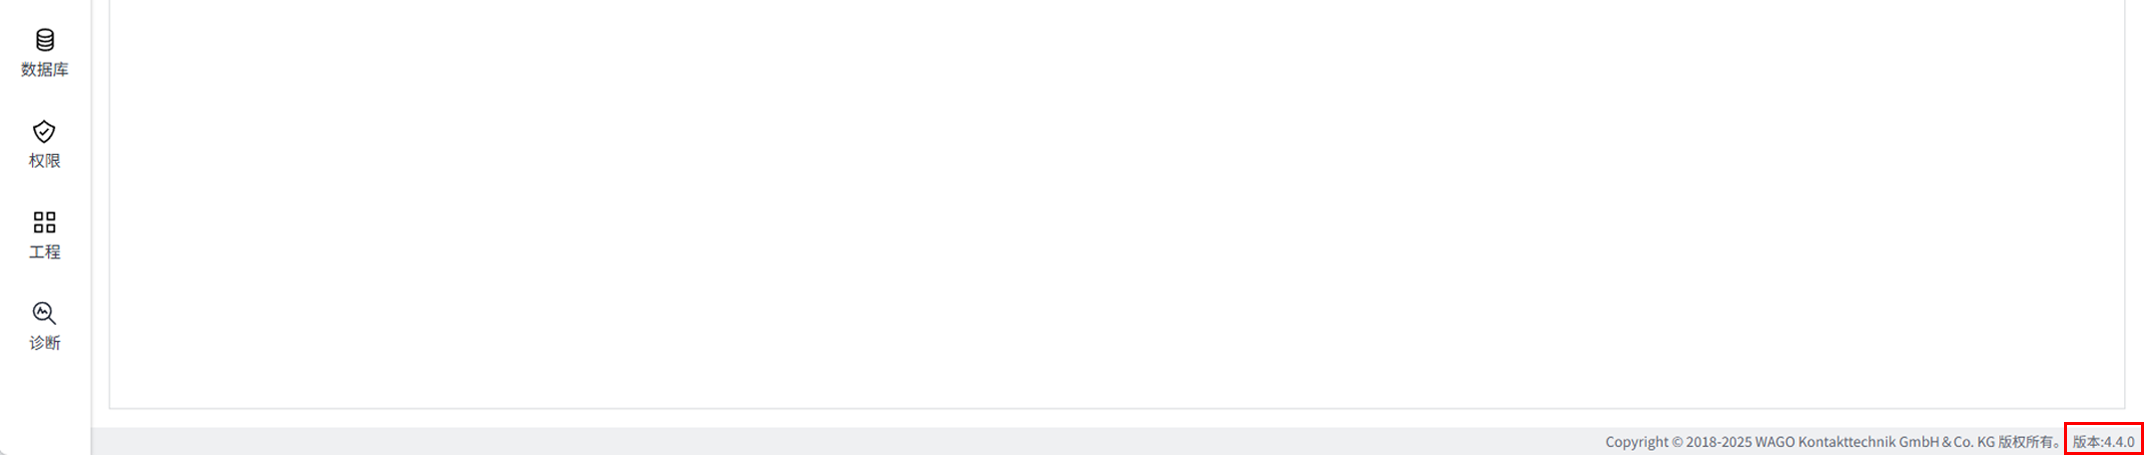
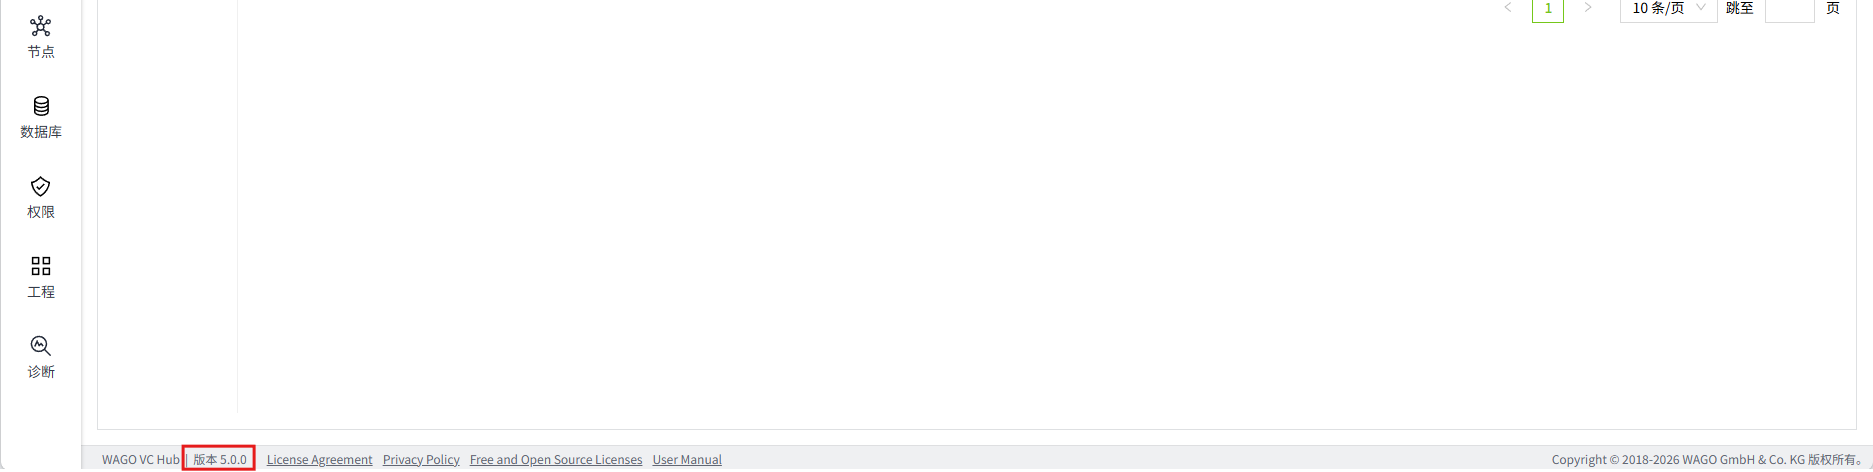
1

diff --git a/docs/installation/product-license.md b/docs/installation/product-license.md
@@ -2,26 +2,56 @@
 
 #### 试用版说明
 
-WAGO VC Hub网站提供的试用版和购买授权后激活的正式版本拥有完全相同的功能，因此你可以在决定购买WAGO VC Hub前，无限期的试用我们的产品。购买授权之后，只需要将授权码输入到试用版中进行激活，即可将使用版本转换为正式版本。
+安装完成后，VC Hub 提供 30 天免费试用期。试用期内，您可以使用产品的所有功能。
 
-在试用模式下的唯一限制是WAGO VC Hub会每两小时停止服务，你可以在界面上点击”重置试用“按钮开启新一轮试用。
+您可以通过购买正式许可证来激活产品。目前仅支持在线激活。
 
 #### 产品授权说明
 
-WAGO VC Hub的产品授权是一种基于服务器的授权方式，并且不限制客户端和点位的数量。接入的点位和客户端数量的上限取决于服务器的性能。
+VC Hub 支持年度订阅和一次性购买两种方式。用户只能选择其中一种购买方式。
 
-服务器的授权是根据功能模块组合而成的，您可以根据需要购买不同的功能模块，可参考WAGO VC Hub的[known-link]。
+授权可基于以下几个功能模块进行：
 
-下面是WAGO VC Hub提供的功能模块：
+##### I/O 变量
 
-| **功能模块**   | **依赖模块**              | **说明**                                                                                                                                                                                                                                                                             |
-|----------------|---------------------------|--------------------------------------------------------------------------------------------------------------------------------------------------------------------------------------------------------------------------------------------------------------------------------------|
-| 基础平台模块   | 无                        | 基础平台模块是唯一必须购买的模块。基础平台模块包含了常见的驱动，如Modbus TCP/RTU, OPC UA, Siemens S7, MQTT，以及变量管理，报警管理，后台脚本计算，时间表等功能。基础平台模块也包含组网和冗余 注1的功能。在组网环境中，基础平台可以作为数采服务器独立运行，并按需提供数据给其他WAGO VC Hub节点。 |
-| 2D可视化模块   | 基础平台模块              | 2D可视化模块可以让用户使用WAGO VC Hub的Web编辑器来构建组态监控画面。                                                                                                                                                                                                                  |
-| 3D可视化模块   | 基础平台模块，2D可视化模块 | 3D可视化模块可以让用户使用WAGO VC Hub的Web 3D编辑器来构建数字孪生应用，并可和2D画面进行融合展示。                                                                                                                                                                                      |
-| 数据库连接模块 | 基础平台模块              | 数据库连接模块可以让WAGO VC Hub连接到第三方数据库，如MySQL，PostgreSQL, InfluxDB等。WAGO VC Hub可以把这些数据库变成历史库，将数据存储到这些数据库中。WAGO VC Hub安装包本身自带一个SQLite数据库，可以用于小型和简单的场景。                                                                  |
+共有 6 种不同的许可证数量可供选择。您可以根据自身情况确定需要购买的许可证数量。
+- 1,000 I/O 变量
+- 2,000 I/O 变量
+- 5,000 I/O 变量
+- 10,000 I/O 变量
+- 20,000 I/O 变量
+- 50,000 I/O 变量
 
-注1：冗余功能是指两台WAGO VC Hub服务器互为主备，因此你需要为两台服务器购买两个基础平台模块的授权。
+**说明**：
+1.  标签数量不能累加。例如：如果您需要使用 3,000 个 I/O 标签，根据标签数量，您需要购买支持 ≥ 3000 个标签的许可证。因此，您需要购买支持 5,000 个 I/O 标签的许可证。
+2.  如果 I/O 标签许可证未激活，该 I/O 标签的质量状态将显示为 "Bad_NotLicensed"
+3.  如果创建的 I/O 标签数量超过 I/O 标签许可证允许的最大值，则根据标签排序规则，超出最大限制的标签其质量状态将被设置为 "Bad_NotLicensed"
+4.  质量状态为“Bad_NotLicensed”（未授权）的标签将不再被收集或推送到预览和运行时页面。
 
+##### 同时在线用户数
 
+同时在线用户数包含三种不同类型的数据。
+- 2 位同时在线用户
+- 5 位同时在线用户
+- 10 位同时在线用户
 
+**说明**：
+1.  如果用户未购买任何同时在线用户类型的许可证，则仅允许一个同时在线用户。
+2.  同时在线用户也不支持累积。
+
+##### 附加组件
+以下功能模块为附加组件。
+- 数据库：MySQL、SQL Server、PostgreSQL、InfluxDB
+- 报表
+- 告警通知：SMS（Twilio）、SMS（阿里云）、企业微信、钉钉
+- Open API
+- 驱动：MQTT Native、MQTT SparkplugB、WAGO Protocol
+- 3D
+
+**说明**：
+1.  每个附加模块均可单独购买。
+2.  对于未授权的模块，将在页面顶部显示一条消息，指出该模块没有许可证，例如：
+    ![alt text](37.png)
+    ![alt text](38.png)
+
+3.  对于未授权的功能模块，在管理控制台和设计器页面允许进行正常操作（例如创建、删除、更新和查询），但在预览和运行时页面其功能将受到限制。

diff --git a/docs/overview/version-update-notes.md b/docs/overview/version-update-notes.md
@@ -7,20 +7,33 @@ WAGO VC Hub一直在不断地发展和更新中，每一个版本都会出现一
 您可以通过以下两种方式获取您当前使用的WAGO VC Hub版本号：
 
 1. 在管理平台的右下角，您可以找到对应的WAGO VC Hub版本号。
+    ![alt text](9.png)
 2. 在组态编辑界面的右上角，有一个感叹号图标，您可以点击此图标获取对应的WAGO VC Hub版本号信息。
 
-![alt text](9.png)
+    ![alt text](10.png)
 
-![alt text](10.png)
-
-- 所见即所得组态编辑器：WAGO VC Hub提供了一个所见即所得[known-link]，方便您实时预览组态效果。
-- 标准化报警：WAGO VC Hub提供标准化[known-link]功能，包括各类限值报警、变化速率报警以及等值报警等，并且提供相应的实时和历史组态控件。
-- 对象化：WAGO VC Hub支持直接创建变量，也支持对象化方式创建变量，通过[known-link]的概念组建您的现场应用。
-- 多数据库：WAGO VC Hub支持配置多种[known-link]行历史数据存储，比如MySQL、SQL Server等。
-- 组网和冗余：WAGO VC Hub支持大规模组态已经高可用场景，您可以通过多套VC Hub[known-link]构建您的复杂现场组态项目。
-- 3D数字孪生：WAGO VC Hub支持3D组态，类似于2D组态，您可以构建您的数字孪生场景，同时其提供了大量的[known-link]供您组态出更高级和复杂的数字孪生应用。
+- 所见即所得组态编辑器：WAGO VC Hub提供了一个所见即所得[编辑器介绍](../2d-visualization/editor-introduction.md)，方便您实时预览组态效果。
+- 标准化报警：WAGO VC Hub提供标准化[报警](../management-platform/alarming/index.md)功能，包括各类限值报警、变化速率报警以及等值报警等，并且提供相应的实时和历史组态控件。
+- 对象化：WAGO VC Hub支持直接创建变量，也支持对象化方式创建变量，通过[资产](../management-platform/assets-and-tags/asset/index.md)的概念组建您的现场应用。
+- 多数据库：WAGO VC Hub支持配置多种[数据库](../management-platform/databases/index.md)行历史数据存储，比如MySQL、SQL Server等。
+- 组网和冗余：WAGO VC Hub支持大规模组态已经高可用场景，您可以通过多套VC Hub[组网](../management-platform/networking.md)构建您的复杂现场组态项目。
+- 3D数字孪生：WAGO VC Hub支持3D组态，类似于2D组态，您可以构建您的数字孪生场景，同时其提供了大量的[3D低代码示例](../3d-visualization/3d-low-code-example/index.md)供您组态出更高级和复杂的数字孪生应用。
 
 #### 新功能
+
+
+###### 5.0.X
+
+- **许可证管理**：支持许可证的激活、注销、刷新、更新和删除操作。
+- **强制登出在线用户**：通并发用户数达到许可证限制时，拥有安全权限的用户登录系统，系统将自动强制最早登录的用户登出。确保拥有安全权限的用户始终能够访问系统，或释放登录名额供其他用户使用。
+
+###### 4.5.X
+
+- **许可证管理**：通过 DRM（数字版权管理）激活许可证。此版本仅支持许可证的试用模式。
+
+###### 4.4.X
+
+- **LOGO 和名称修改**：产品 LOGO 已更换，产品名称从 WAGO SCADA 更改为 WAGO Visualization and Control Hub，缩写为 VC Hub。
 
 ###### 4.3.X
 

diff --git a/docs/installation/windows-environment.md b/docs/installation/windows-environment.md
@@ -56,7 +56,7 @@ WAGO VC Hub 提供Windows 64位操作系统安装包。
 
 3. 上述步骤完成后，等待程序加载完毕即可用步骤1中创建的管理员用户登录默认工程。
 
-| **说明**：每次安装后会默认创建一个新的空的工程，要想回到原工程，需要登录新工程后，在工程列表中手动打开原工程。 |
+**说明**：每次安装后会默认创建一个新的空的工程，要想回到原工程，需要登录新工程后，在工程列表中手动打开原工程。 |
 
 #### 安全配置（可选）
 
@@ -72,24 +72,25 @@ WAGO VC Hub 提供Windows 64位操作系统安装包。
 
       进入服务安装目录（例如 C:\Program Files\WAGO VC Hub），点击鼠标右键，选择“属性“ → “安全“
 
-   - 根据实际安全需求选择保留的用户或组，删除不必要的用户或组（如 Users、Everyone）。
-   - 添加 WagoVC HubSvc 用户，并为其赋予读取、写入、修改权限。
-   - 确认应用到子文件夹和文件。
-            注意：必须在修改服务运行账号之前完成此步骤，否则服务可能无法启动或重启。
+      - 根据实际安全需求选择保留的用户或组，删除不必要的用户或组（如 Users、Everyone）。
+      - 添加 WagoVC HubSvc 用户，并为其赋予读取、写入、修改权限。
+      - 确认应用到子文件夹和文件。注意：必须在修改服务运行账号之前完成此步骤，否则服务可能无法启动或重启。
 
 3. 修改服务运行账号
 
      在服务管理器（services.msc）中找到 WAGO VC Hub服务 → 右键菜单中点击"属性" →"登录" → 选择“此账户”：
 
-   - 填入 .\WagoVC HubSvc 及密码。
-   - 保存并重启服务。
+      - 填入 .\WagoVC HubSvc 及密码。
+      - 保存并重启服务。
+
 4. 设置**应用程序数据目录**权限
 
       进入安装时选择的应用程序数据目录（例如 C:\ProgramData\WAGOVC Hub），右键菜单中点击"属性"  → "安全"：
 
-   - 根据实际安全需求选择保留的用户或组，删除不必要的用户或组（如 Users、Everyone）。
-   - 添加 WagoVC HubSvc 用户，赋予读取、写入、修改权限。
-   - 确认应用到子文件夹和文件。
+      - 根据实际安全需求选择保留的用户或组，删除不必要的用户或组（如 Users、Everyone）。
+      - 添加 WagoVC HubSvc 用户，赋予读取、写入、修改权限。
+      - 确认应用到子文件夹和文件。
+
 5. 验证配置
 
       访问 WAGO VC Hub 站点（例如 http://localhost:8066），确认站点正常运行。

diff --git a/docs/installation/typical-architecture-selection-guide.md b/docs/installation/typical-architecture-selection-guide.md
@@ -10,8 +10,7 @@
 
 | 所需授权模块 | 数量 |
 |:--------------|:------|
-| 基础平台     | 1    |
-| 2D可视化     | 1    |
+|  I/O 变量   | 1    |
 
 
 
@@ -21,8 +20,7 @@
 
 | 所需授权模块      | 数量 |
 |:-------------------|:------|
-| 基础平台 （含冗余） | 1x2  |
-| 2D可视化（含冗余）  | 1x2  |
+| I/O 变量 | 2  |
 
 
 
@@ -32,9 +30,9 @@
 
 | 所需授权模块 | 数量 |
 |:--------------|:------|
-| 基础平台     | 1    |
-| 2D可视化     | 1    |
-| 数据库连接   | 1    |
+| I/O 变量     | 1    |
+| 历史数据     | 1    |
+
 
 
 
@@ -46,12 +44,12 @@
 
 | 所需授权模块             | 数量 |
 |:--------------------------|:------|
-| 产线1 VC Hub - 基础平台  | 1    |
-| 产线1 VC Hub- 数据库连接 | 1    |
-| 产线2 VC Hub- 基础平台   | 1    |
-| 产线2 VC Hub- 数据库连接 | 1    |
-| 厂级VC Hub - 基础平台    | 1    |
-| 厂级VC Hub - 2D可视化    | 1    |
+| 产线 1 - I/O 变量  | 1    |
+| 产线 1 - 历史数据 | 1    |
+| 产线 2 - I/O 变量   | 1    |
+| 产线 2 - 历史数据 | 1    |
+| 工厂 - I/O 变量    | 1    |
+
 
 
 
@@ -63,14 +61,12 @@
 
 | 所需授权模块                     | 数量 |
 |:----------------------------------|:------|
-| 产线1 VC Hub - 基础平台（含冗余）  | 1x2  |
-| 产线1 VC Hub- 数据库连接（含冗余） | 1x2  |
-| 产线1 VC Hub- 2D可视化（含冗余）   | 1x2  |
-| 产线2 VC Hub - 基础平台（含冗余）  | 1x2  |
-| 产线2 VC Hub- 数据库连接（含冗余） | 1x2  |
-| 产线2 VC Hub- 2D可视化（含冗余）   | 1x2  |
-| 厂级VC Hub - 基础平台（含冗余）    | 1x2  |
-| 厂级VC Hub - 2D可视化（含冗余）    | 1x2  |
+| 产线 1 - I/O 变量  | 2    |
+| 产线 1 - 历史数据 | 2    |
+| 产线 2 - I/O 变量   | 2    |
+| 产线 2 - 历史数据 | 2    |
+| 工厂 - I/O 变量    | 2    |
+
 
 
 
@@ -82,15 +78,12 @@
 
 | 所需授权模块             | 数量 |
 |:--------------------------|:------|
-| 站点1 VC Hub - 基础平台  | 1    |
-| 站点1 VC Hub- 数据库连接 | 1    |
-| 站点1 VC Hub- 2D可视化   | 1    |
-| 站点2 VC Hub - 基础平台  | 1    |
-| 站点2 VC Hub- 数据库连接 | 1    |
-| 站点2 VC Hub- 2D可视化   | 1    |
-| 云端 VC Hub - 基础平台   | 1    |
-| 云端 VC Hub- 数据库连接  | 1    |
-| 云端 VC Hub- 2D可视化    | 1    |
+| 站点 1 - I/O 变量 | 1    |
+| 站点 1 - 历史数据| 1    |
+| 站点 2 - I/O 变量  | 1    |
+| 站点 2 - 历史数据 | 1    |
+| 云端 - I/O 变量    | 1    |
+| 云端 - 历史数据| 1    |
 
 
 

diff --git a/docs/management-platform/alarming/alarm-notification/services/email.md b/docs/management-platform/alarming/alarm-notification/services/email.md
@@ -6,15 +6,15 @@
 
 1. 点击“**报警**”->"**报警通知**"->"**通知服务**"，进入通知服务列表页面。
 
-![alt text](1.png)
+    ![alt text](1.png)
 
 2. 点击右上角“**新增**”按钮。在新增弹窗中选择Email(SMTP)。
 
-![alt text](2.png)
+    ![alt text](2.png)
 
 3. 点击下一步，进入详细配置界面。
 
-![alt text](3.png)
+    ![alt text](3.png)
 
 4. 设置完成，点击“测试连接“，测试邮件服务是否配置成功。
 5. 测试成功后，点击'**确认**'按钮，添加该条配置数据。

diff --git a/docs/management-platform/alarming/alarm-notification/services/wecom.md b/docs/management-platform/alarming/alarm-notification/services/wecom.md
@@ -77,7 +77,7 @@
 3. 在列表中，点击群机器人，即可查看
 
     ![alt text](32.png)
-    **说明**：只有自己创建的群机器人，才能查看到Webhook地址。
+    <br>**说明**：只有自己创建的群机器人，才能查看到Webhook地址。
 
 ###### 如何创建应用
 

diff --git a/docs/installation/setup-service-running-user.md b/docs/installation/setup-service-running-user.md
@@ -25,7 +25,7 @@ WAGO VC Hub 服务在Windows中默认登录身份为**本地系统账户**，在
       - 选择 `此账户`，然后输入账户名和密码。
       - 点击 `确定` 保存设置。
 
-![alt text](30.png)
+      ![alt text](30.png)
 
 
 
